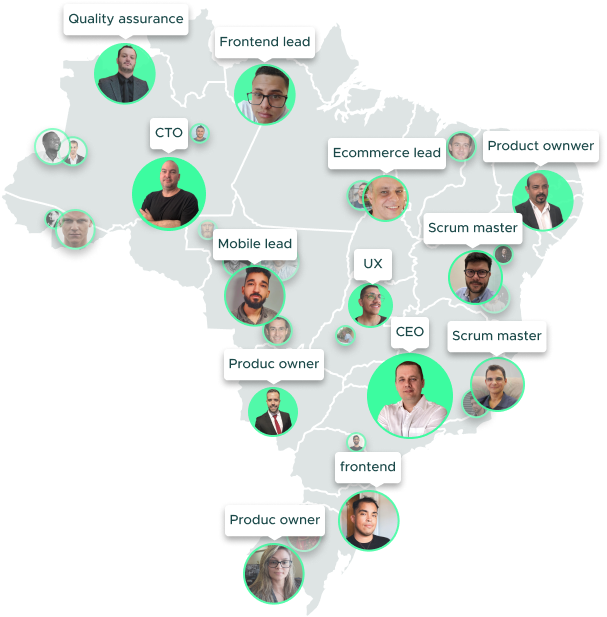
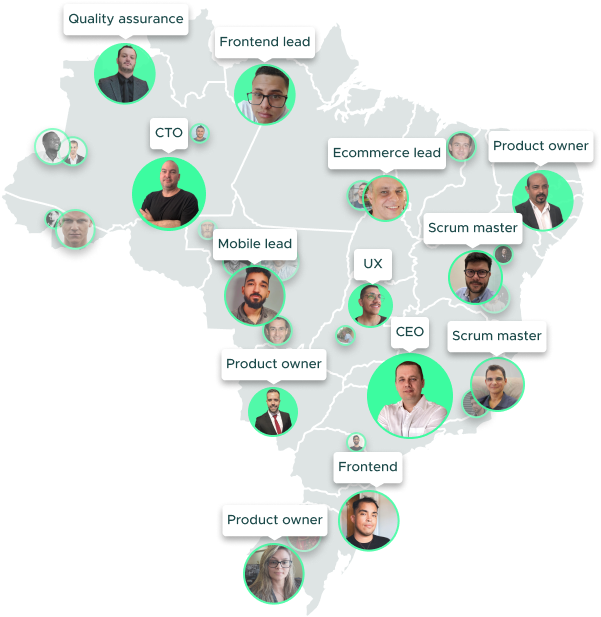
atualização de texto e map

diff --git a/src/utils/mock.ts b/src/utils/mock.ts
@@ -13,10 +13,10 @@ export const Sliders = [
     id: "01",
     title: "Gestão de despesa",
     subTitle:
-      "Tenha o controle das despedas de todo o seu negócio em um só lugar",
+      "Tenha o controle das despedas de todo o seu negócio em um só lugar.",
     img: screen,
     imgDescrition:
-      "O RDV (Registro de Despesa de Viagem) é um sistema de gestão que auxilia na administração de despesas do seu negócio. A ferramenta cuida de todas as despesas relacionadas gastos do seu funcionário, permitindo que você tenha mais controle dos gastos.",
+      "O RDV (Registro de Despesa de Viagem) é um sistema que oferece soluções de controle e gestão administrativa para seu negócio. Ele administra todas as despesas de viagem associadas aos seus colaboradores. Informação combinada com meios adequados de controle lhe permitirá mais eficiência na gestão dos recursos de seu negócio.",
   },
   {
     id: "02",
@@ -25,24 +25,24 @@ export const Sliders = [
       "Tenha o controle de todos os seus clientes e potenciais em um só lugar.",
     img: screen2,
     imgDescrition:
-      "O CRM é um sistema onde armazena informações de clientes atuais e potenciais nome, endereço, número de telefone, e suas atividades e pontos de contato com a empresa, incluindo visitas a sites, ligações telefônicas, e-mails, entre outras interações.",
+      "O CRM (Customer Relationship Management) é uma ferramenta de administração de contatos, que visa gerenciar um banco de informações de clientes atuais e potenciais, tal como por exemplo: Nome, endereço, número de telefone, suas atividades e pontos de contato com a empresa, incluindo visitas a sites, ligações telefônicas, e-mails, entre outras interações.",
   },
   {
     id: "03",
     title: "Mapa de entrega",
-    subTitle: "Tenha todo o controle de entrega de mercadorias em um só lugar",
+    subTitle: "Tenha todo o controle de entrega de mercadorias em um só lugar.",
     img: screen3,
     imgDescrition:
-      " O Mapa de Entrega é um sistema de gestão que auxilia na administração de entrega de mercadorias do seu negócio. A ferramenta cuida de todas entregas para os cliente, e tendo como gerir a frota através do mesmo.",
+      "O Mapa de Entrega administra de forma simples e objetiva a gestão de entrega de mercadorias do seu negócio. A ferramenta combinar uma visão orgânica e geo referenciada das entregas com a gestão de frotas.",
   },
   {
     id: "04",
     title: "Força de vendas",
     subTitle:
-      "Tenha um aplicativo para realizar venda externa comunicando com a loja",
+      "Tenha um aplicativo para realizar venda externa comunicando com a loja.",
     img: screen4,
     imgDescrition:
-      "O força de vendas é um sistema que auxilia o usuário realização de uma venda. A ferramenta tem como objetivo a realização da venda fora da unidade física, podendo ser residência do cliente, dando mais conforto, praticidade e estreitando a comunicação com o nosso cliente final.",
+      "O Força de Vendas tem como missão potencializar dados, informações e a mobilidade de vendas. O objetivo primário é apoiar a concretização das vendas externas. Essa solução é para uso além dos limites do estabelecimento comercial, ou seja, junto ao cliente. É uma opção prática que estreita relacionamentos com o cliente final.",
   },
 ];
 
@@ -53,7 +53,7 @@ export const People = [
     name: "Raphael Covre",
     charge: "CEO Casa do adubo",
     testimonial:
-      "A Green Belt sempre foi uma empresa parceira da Casa do Adubo. Com eles conseguimos crescer exponencialmente! ",
+      "A Green Belt sempre foi uma empresa parceira da Casa do Adubo. Com eles conseguimos crescer exponencialmente!",
   },
   {
     id: 2,
@@ -72,7 +72,7 @@ export const aboutUsText = [
   },
   {
     id: 2,
-    text: "Acreditamos que qualidade e equipe certificada são o básico para entregar os resultados esperados pelos nossos clientes, e por isso, investimos continuamente em inovação dentro do próprio time. O ajustes de processos em todas as áreas é constante para otimizar o que fazemos, ganhado tempo e qualidades. Tecnologia, processos e pessoas existem para evoluir - Entendemos isso e nos esforçamos para nos adaptar.",
+    text: "Acreditamos que qualidade e equipe certificada são o básico para entregar os resultados esperados pelos nossos clientes, e por isso, investimos continuamente em inovação dentro do próprio time. Os ajustes de processos em todas as áreas é constante para otimizar o que fazemos, ganhando tempo e qualidade. Tecnologia, processos e pessoas existem para evoluir - Entendemos isso e nos esforçamos para nos adaptar.",
   },
   {
     id: 3,

diff --git a/src/pages/Home/firstContainer.tsx b/src/pages/Home/firstContainer.tsx
@@ -1,10 +1,10 @@
-import Button from '@/@core/components/Button';
-import Banner from '@/assets/Imagens/bannerTop.png';
-import {CgArrowLongRight} from 'react-icons/cg';
-import {IoMdSquare} from 'react-icons/io';
-import {FirstContainer} from './styles';
-import Typed from 'react-typed';
-import {Link} from 'react-scroll';
+import Button from "@/@core/components/Button";
+import Banner from "@/assets/Imagens/bannerTop.png";
+import { CgArrowLongRight } from "react-icons/cg";
+import { IoMdSquare } from "react-icons/io";
+import { FirstContainer } from "./styles";
+import Typed from "react-typed";
+import { Link } from "react-scroll";
 
 export default function firstContainer() {
   return (
@@ -17,13 +17,13 @@ export default function firstContainer() {
           <h1 className="title">
             Entregamos produtos com<br></br>
             <b className="bold-title">
-              {' '}
+              {" "}
               <Typed
                 strings={[
-                  'experiências autênticas.',
-                  'código limpo e escalável',
-                  'usabilidade planejada',
-                  'foco nos resultados',
+                  "experiências autênticas.",
+                  "código limpo e escalável.",
+                  "usabilidade planejada.",
+                  "foco nos resultados.",
                 ]}
                 typeSpeed={90}
                 backSpeed={30}

diff --git a/src/pages/Home/styles.ts b/src/pages/Home/styles.ts
@@ -1,4 +1,4 @@
-import styled from 'styled-components';
+import styled from "styled-components";
 
 export const Container = styled.div`
   display: flex;
@@ -491,6 +491,8 @@ export const AboutUsMVVContainer = styled.div`
 export const Products = styled.div`
   width: 100%;
   padding: 5rem 0;
+  min-height: 945px;
+  height: 945px;
   background: rgba(2, 53, 53, 0.9);
   display: flex;
   flex-direction: column;
@@ -1146,8 +1148,8 @@ export const ContactContainer = styled.div`
       color: #2c2c2c;
       padding-bottom: 2rem;
     }
-    input[type='text'],
-    [type='email'],
+    input[type="text"],
+    [type="email"],
     textarea {
       width: 100%;
       padding: 11px 10px 11px 15px;
@@ -1159,7 +1161,7 @@ export const ContactContainer = styled.div`
       resize: vertical;
     }
 
-    input[type='submit'] {
+    input[type="submit"] {
       background-color: rgba(2, 53, 53, 0.9);
       color: white;
       width: 100%;
